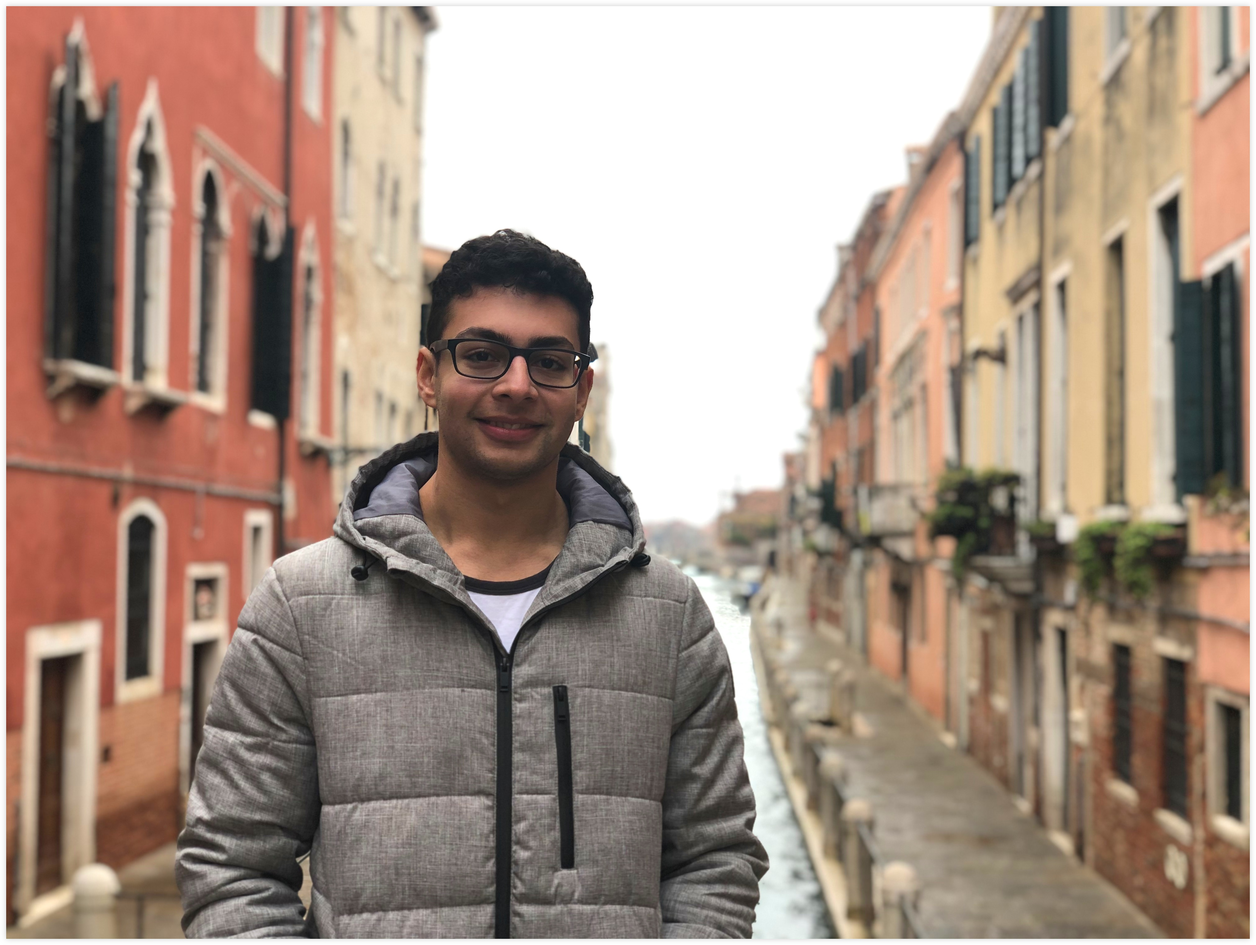
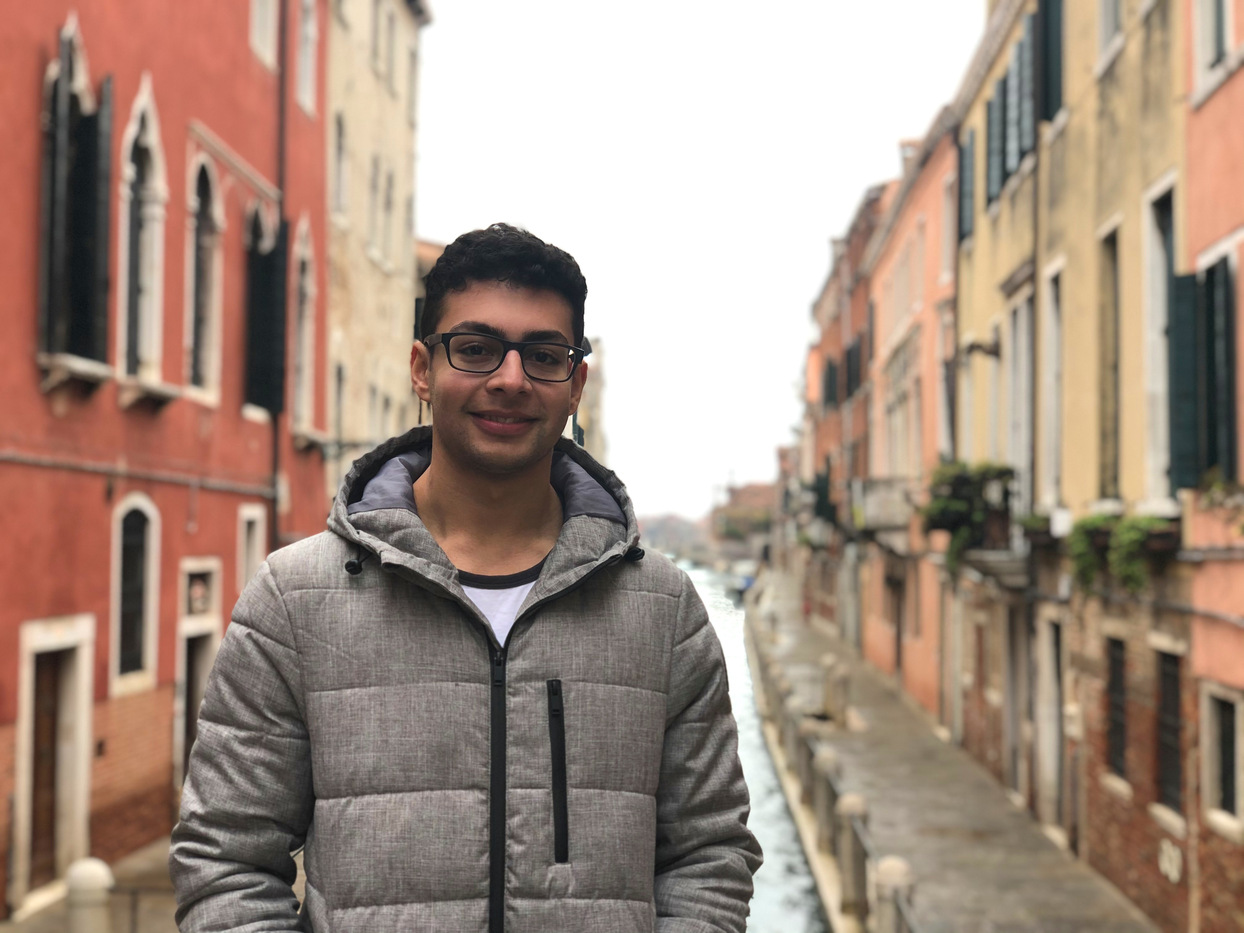
Adjust layout and photo on about page

diff --git a/src/pages/about.tsx b/src/pages/about.tsx
@@ -8,8 +8,11 @@ import { Seo } from "../components"
 const Container = styled.section`
   width: 100%;
   display: grid;
-  grid-template-columns: minmax(24px, 1fr) minmax(auto, 50ch) minmax(24px, 1fr);
-  grid-template-rows: 48px auto 48px;
+  grid-template-columns:
+    minmax(var(--space-m), 1fr)
+    minmax(auto, 50ch)
+    minmax(var(--space-m), 1fr);
+  grid-template-rows: var(--space-m) auto var(--space-m);
   grid-template-areas:
     ". .       ."
     ". content ."
@@ -25,6 +28,10 @@ const Content = styled.div`
 
 const Title = styled.h1`
   font-size: 5.6rem;
+`
+
+const ImageOfMe = styled(Image)`
+  border-radius: 4px;
 `
 
 const SubTitle = styled.h1`
@@ -44,7 +51,7 @@ export default function AboutPage({ data }) {
         <Content>
           <Title>About</Title>
 
-          <Image fluid={data.file.childImageSharp.fluid} />
+          <ImageOfMe fluid={data.file.childImageSharp.fluid} />
 
           <SubTitle>
             A simple Google search of “how do websites work” is what started
@@ -95,7 +102,7 @@ export const query = graphql`
   query {
     file(relativePath: { eq: "general/about.jpg" }) {
       childImageSharp {
-        fluid(maxWidth: 1200) {
+        fluid(maxWidth: 800, quality: 100) {
           ...GatsbyImageSharpFluid_withWebp
         }
       }
